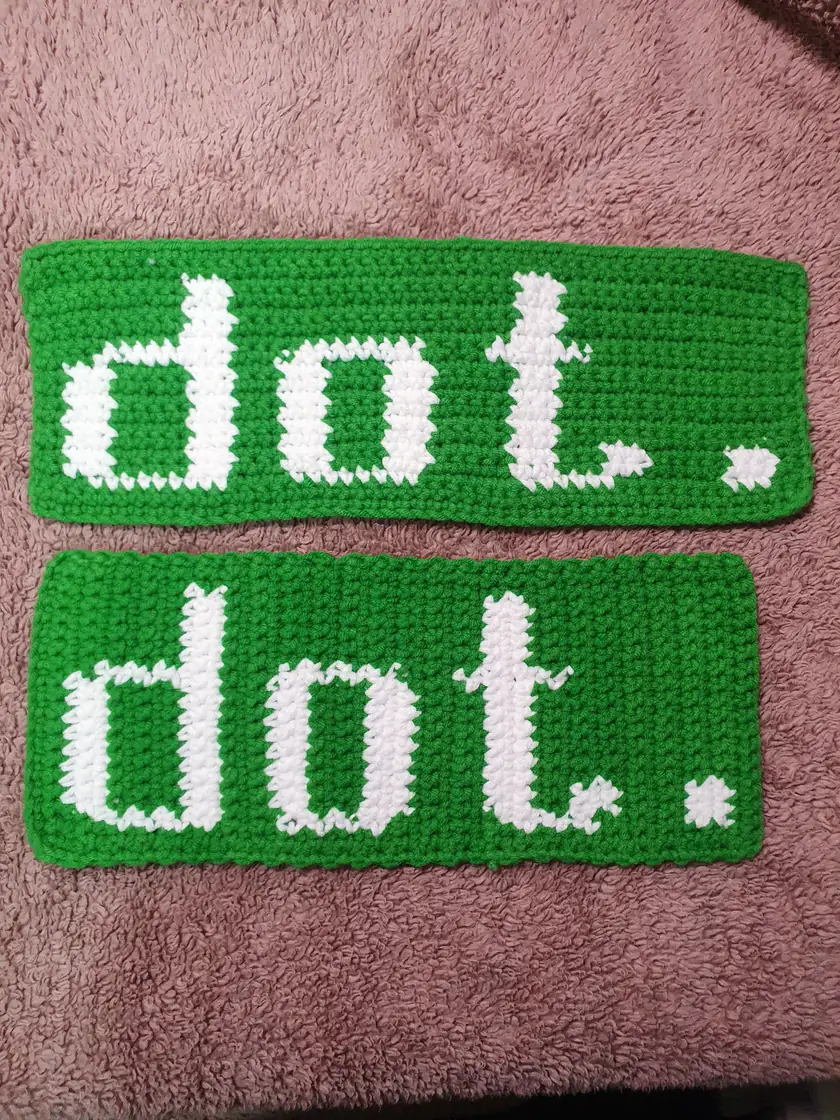
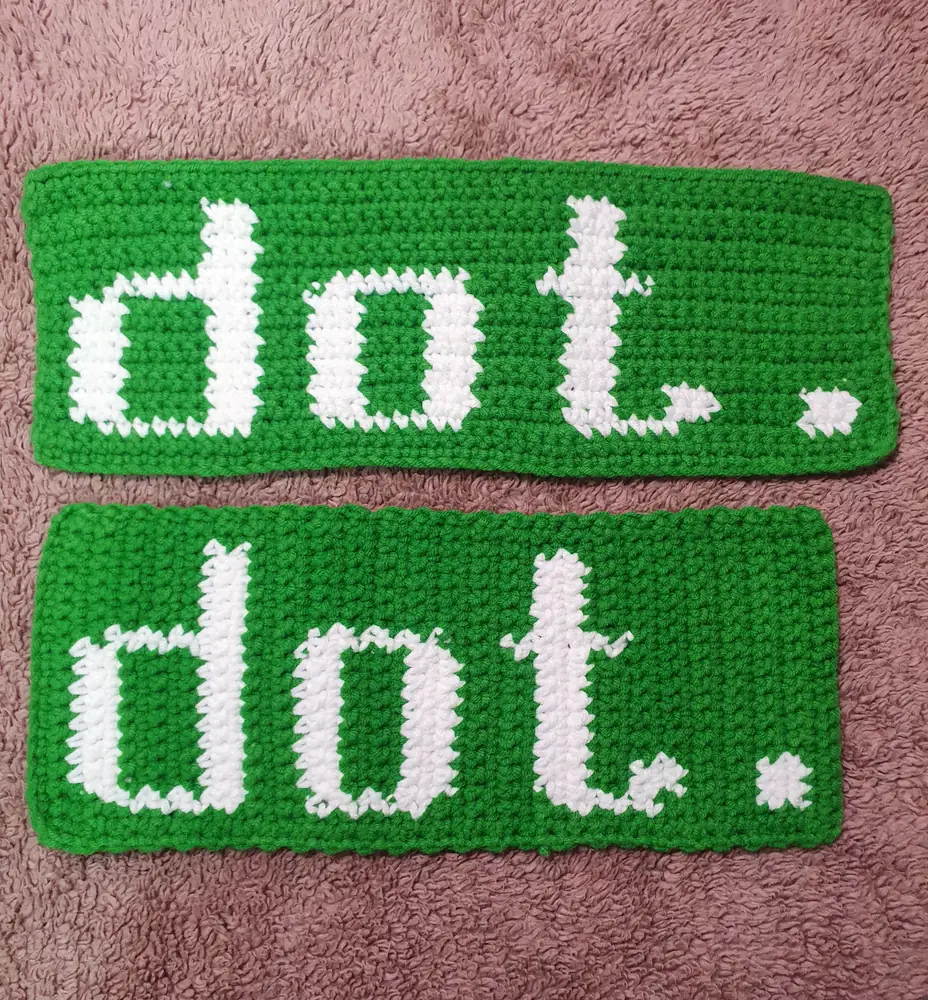
가이드 글 첫 번째 사진 가장자리 자르기
- guide-direction-both.webp: 오른쪽 위 접힌 담요와 아래쪽 어두운 띠를 잘라 냄
  (돌리기·원근·색 보정은 그대로, 마지막에 위 340px·아래 432px만 자름, 두 작품과 둘레 여백은 남김)
- 928×1000, 198.4KB, 메타데이터 없음. img width/height 수정

diff --git a/guides/knitting-direction/index.html b/guides/knitting-direction/index.html
@@ -52,7 +52,7 @@
   </figure>
   <p>태피스트리 크로셰는 도안이 같아도 어느 방향으로 뜨느냐에 따라 편물의 성격이 꽤 달라집니다. 두 작품을 나란히 놓으면 차이가 한눈에 보입니다.</p>
   <figure class="guide-fig photo">
-    <img src="../../assets/guides/guide-direction-both.webp" width="840" height="1120" loading="lazy" alt="같은 dot. 도안을 뜬 두 편물. 위는 가로 시작으로 뜬 더 긴 편물, 아래는 세로 시작으로 뜬 편물">
+    <img src="../../assets/guides/guide-direction-both.webp" width="928" height="1000" loading="lazy" alt="같은 dot. 도안을 뜬 두 편물. 위는 가로 시작으로 뜬 더 긴 편물, 아래는 세로 시작으로 뜬 편물">
     <figcaption>가로 시작(위)과 세로 시작(아래) 비교</figcaption>
   </figure>
   <h2>세로 시작이 더 편했습니다</h2>
